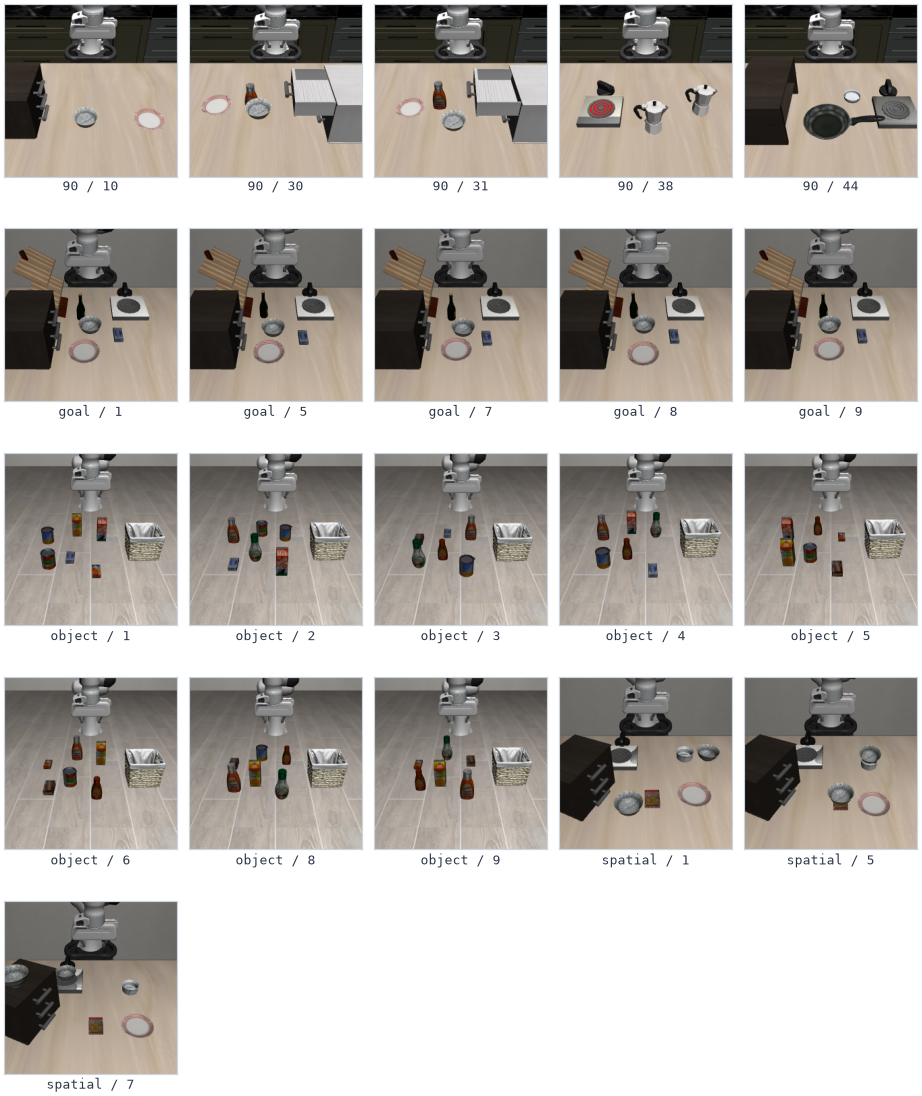
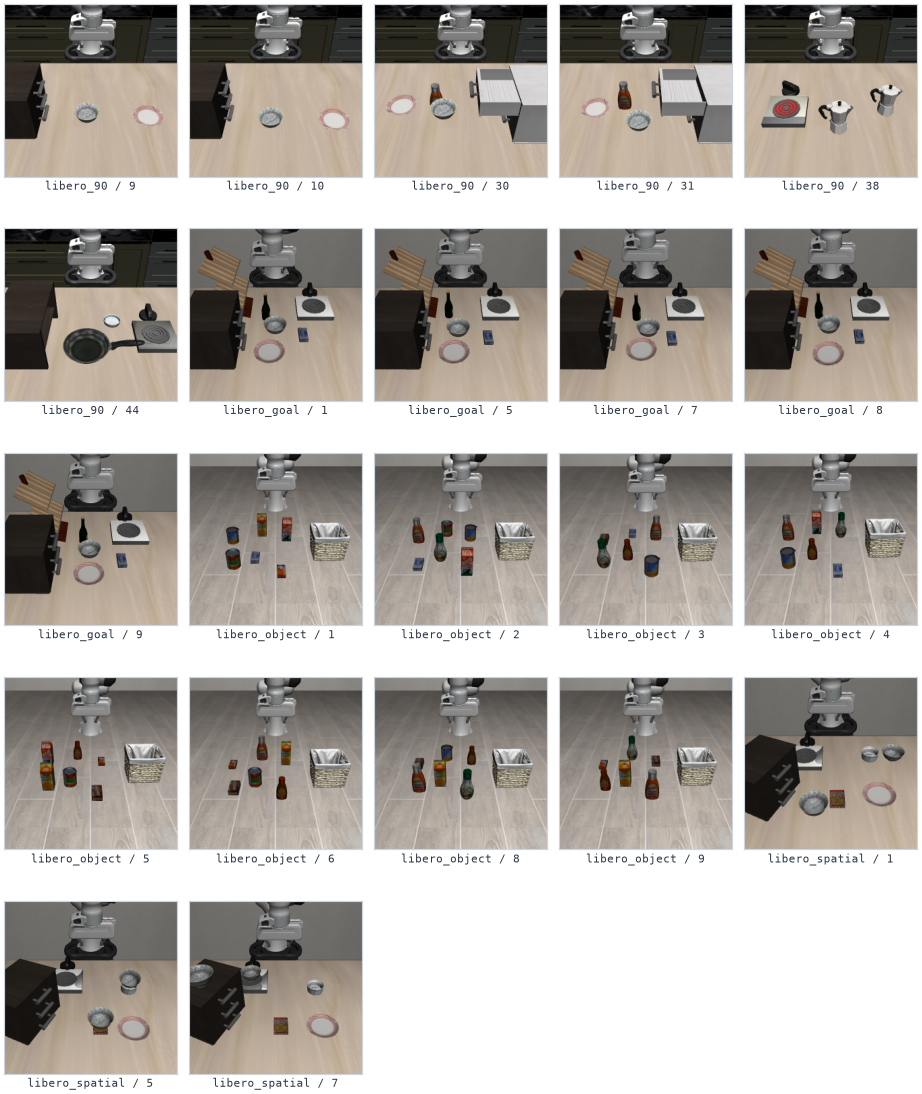
Minimal-pair edits (90/31 ladder, new 90/9) + scene grid suite labels

diff --git a/paper/figures/pairverify_libero_body.tex b/paper/figures/pairverify_libero_body.tex
@@ -1,0 +1,124 @@
+{\ttfamily\bfseries libero\_90/9}\par\nopagebreak
+{\leftskip=1.1em
+{\bfseries question form}\enspace +14\,pp\,$\cdot$\, p=0.0144\\[0.5pt]
+\hangindent=2.4em \pct{hipct}{98}~\texttt{put the black bowl on the plate}\\
+\hangindent=2.4em \pct{lopct}{84}~\texttt{\colorbox{lo}{\strut can} \colorbox{lo}{\strut you} put the black bowl on the plate}\\
+[0.4pt]\par}
+\vspace{0.3pt}{\color{black!35}\hrule height 0.5pt}\vspace{1.0pt}
+{\ttfamily\bfseries libero\_90/10}\par\nopagebreak
+{\leftskip=1.1em
+{\bfseries preposition}\enspace +40\,pp\,$\cdot$\, p<0.0001\\[0.5pt]
+\hangindent=2.4em \pct{hipct}{100}~\texttt{place the black bowl \colorbox{hi}{\strut on} \colorbox{hi}{\strut top} \colorbox{hi}{\strut of} the cabinet}\\
+\hangindent=2.4em \pct{lopct}{60}~\texttt{place the black bowl \colorbox{lo}{\strut up} \colorbox{lo}{\strut onto} the cabinet}\\
+[0.4pt]\par}
+\vspace{0.3pt}{\color{black!35}\hrule height 0.5pt}\vspace{1.0pt}
+{\ttfamily\bfseries libero\_90/30}\par\nopagebreak
+{\leftskip=1.1em
+{\bfseries destination noun}\enspace +56\,pp\,$\cdot$\, p<0.0001\\[0.5pt]
+\hangindent=2.4em \pct{hipct}{76}~\texttt{put the black bowl on the \colorbox{hi}{\strut plate}}\\
+\hangindent=2.4em \pct{lopct}{20}~\texttt{put the black bowl on the \colorbox{lo}{\strut dish}}\\
+[0.4pt]\par}
+\vspace{0.3pt}{\color{black!35}\hrule height 0.5pt}\vspace{1.0pt}
+{\ttfamily\bfseries libero\_90/31}\par\nopagebreak
+{\leftskip=1.1em
+{\bfseries source color}\enspace +26\,pp\,$\cdot$\, p=0.0020\\[0.5pt]
+\hangindent=2.4em \pct{hipct}{36}~\texttt{put the \colorbox{hi}{\strut bowl} on top of the cabinet}\\
+\hangindent=2.4em \pct{lopct}{16}~\texttt{put the \colorbox{lo}{\strut black} \colorbox{lo}{\strut bowl} on top of the cabinet}\\
+\hangindent=2.4em \pct{lopct}{10}~\texttt{put the \colorbox{lo}{\strut grey} \colorbox{lo}{\strut bowl} on top of the cabinet}\\
+[0.4pt]\par}
+\vspace{0.3pt}{\color{black!35}\hrule height 0.5pt}\vspace{1.0pt}
+{\ttfamily\bfseries libero\_90/38}\par\nopagebreak
+{\leftskip=1.1em
+{\bfseries verb}\enspace +20\,pp\,$\cdot$\, p=0.0440\\[0.5pt]
+\hangindent=2.4em \pct{hipct}{54}~\texttt{\colorbox{hi}{\strut pick} \colorbox{hi}{\strut up} the right moka pot and place it on the stove}\\
+\hangindent=2.4em \pct{lopct}{34}~\texttt{\colorbox{lo}{\strut lift} the right moka pot and place it on the stove}\\
+[0.4pt]\par}
+\vspace{0.3pt}{\color{black!35}\hrule height 0.5pt}\vspace{1.0pt}
+{\ttfamily\bfseries libero\_90/44}\par\nopagebreak
+{\leftskip=1.1em
+{\bfseries verb}\enspace +94\,pp\,$\cdot$\, p<0.0001\\[0.5pt]
+\hangindent=2.4em \pct{hipct}{100}~\texttt{\colorbox{hi}{\strut fire} \colorbox{hi}{\strut up} the stove}\\
+\hangindent=2.4em \pct{lopct}{6}~\texttt{\colorbox{lo}{\strut turn} \colorbox{lo}{\strut on} the stove}\\
+[0.4pt]\par}
+{\leftskip=1.1em
+{\bfseries particle placement}\enspace +14\,pp\,$\cdot$\, p=0.0374\\[0.5pt]
+\hangindent=2.4em \pct{hipct}{20}~\texttt{turn \colorbox{hi}{\strut the} stove \colorbox{hi}{\strut on}}\\
+\hangindent=2.4em \pct{lopct}{6}~\texttt{turn \colorbox{lo}{\strut on} \colorbox{lo}{\strut the} stove}\\
+[0.4pt]\par}
+\vspace{0.3pt}{\color{black!35}\hrule height 0.5pt}\vspace{1.0pt}
+{\ttfamily\bfseries libero\_goal/1}\par\nopagebreak
+{\leftskip=1.1em
+{\bfseries destination noun}\enspace +92\,pp\,$\cdot$\, p<0.0001\\[0.5pt]
+\hangindent=2.4em \pct{hipct}{92}~\texttt{place the grey bowl on the \colorbox{hi}{\strut electric} \colorbox{hi}{\strut burner}}\\
+\hangindent=2.4em \pct{lopct}{18}~\texttt{place the grey bowl on the \colorbox{lo}{\strut hotplate}}\\
+\hangindent=2.4em \pct{lopct}{0}~\texttt{place the grey bowl on the \colorbox{lo}{\strut hot} \colorbox{lo}{\strut plate}}\\
+[0.4pt]\par}
+\vspace{0.3pt}{\color{black!35}\hrule height 0.5pt}\vspace{1.0pt}
+{\ttfamily\bfseries libero\_goal/5}\par\nopagebreak
+{\leftskip=1.1em
+{\bfseries source noun}\enspace +60\,pp\,$\cdot$\, p<0.0001\\[0.5pt]
+\hangindent=2.4em \pct{hipct}{62}~\texttt{slide that \colorbox{hi}{\strut plate} over to the front of the stove}\\
+\hangindent=2.4em \pct{lopct}{2}~\texttt{slide that \colorbox{lo}{\strut dish} over to the front of the stove}\\
+[0.4pt]\par}
+\vspace{0.3pt}{\color{black!35}\hrule height 0.5pt}\vspace{1.0pt}
+{\ttfamily\bfseries libero\_goal/7}\par\nopagebreak
+{\leftskip=1.1em
+{\bfseries source noun}\enspace +98\,pp\,$\cdot$\, p<0.0001\\[0.5pt]
+\hangindent=2.4em \pct{hipct}{100}~\texttt{switch on the \colorbox{hi}{\strut stove}}\\
+\hangindent=2.4em \pct{lopct}{86}~\texttt{switch on the \colorbox{lo}{\strut range}}\\
+\hangindent=2.4em \pct{lopct}{78}~\texttt{switch on the \colorbox{lo}{\strut hob}}\\
+\hangindent=2.4em \pct{lopct}{74}~\texttt{switch on the \colorbox{lo}{\strut cooktop}}\\
+\hangindent=2.4em \pct{lopct}{66}~\texttt{switch on the \colorbox{lo}{\strut heating} \colorbox{lo}{\strut element}}\\
+\hangindent=2.4em \pct{lopct}{62}~\texttt{switch on the \colorbox{lo}{\strut griddle}}\\
+\hangindent=2.4em \pct{lopct}{30}~\texttt{switch on the \colorbox{lo}{\strut hotplate}}\\
+\hangindent=2.4em \pct{lopct}{2}~\texttt{switch on the \colorbox{lo}{\strut hot} \colorbox{lo}{\strut plate}}\\
+[0.4pt]\par}
+{\leftskip=1.1em
+{\bfseries verb}\enspace +52\,pp\,$\cdot$\, p<0.0001\\[0.5pt]
+\hangindent=2.4em \pct{hipct}{100}~\texttt{\colorbox{hi}{\strut turn} \colorbox{hi}{\strut on} the burners}\\
+\hangindent=2.4em \pct{lopct}{48}~\texttt{\colorbox{lo}{\strut start} the burners}\\
+[0.4pt]\par}
+\vspace{0.3pt}{\color{black!35}\hrule height 0.5pt}\vspace{1.0pt}
+{\ttfamily\bfseries libero\_goal/8}\par\nopagebreak
+{\leftskip=1.1em
+{\bfseries destination noun}\enspace +52\,pp\,$\cdot$\, p<0.0001\\[0.5pt]
+\hangindent=2.4em \pct{hipct}{100}~\texttt{put the bowl on the \colorbox{hi}{\strut plate}}\\
+\hangindent=2.4em \pct{lopct}{48}~\texttt{put the bowl on the \colorbox{lo}{\strut dish}}\\
+[0.4pt]\par}
+\vspace{0.3pt}{\color{black!35}\hrule height 0.5pt}\vspace{1.0pt}
+{\ttfamily\bfseries libero\_goal/9}\par\nopagebreak
+{\leftskip=1.1em
+{\bfseries destination noun}\enspace +44\,pp\,$\cdot$\, p<0.0001\\[0.5pt]
+\hangindent=2.4em \pct{hipct}{94}~\texttt{put the wine bottle on the \colorbox{hi}{\strut rack}}\\
+\hangindent=2.4em \pct{lopct}{76}~\texttt{put the wine bottle on the \colorbox{lo}{\strut stand}}\\
+\hangindent=2.4em \pct{lopct}{50}~\texttt{put the wine bottle on the \colorbox{lo}{\strut wooden} \colorbox{lo}{\strut stand}}\\
+[0.4pt]\par}
+\vspace{0.3pt}{\color{black!35}\hrule height 0.5pt}\vspace{1.0pt}
+{\ttfamily\bfseries libero\_object/4}\par\nopagebreak
+{\leftskip=1.1em
+{\bfseries modifier added}\enspace +38\,pp\,$\cdot$\, p<0.0001\\[0.5pt]
+\hangindent=2.4em \pct{hipct}{96}~\texttt{pick up the \colorbox{hi}{\strut bottle} and place it in the basket}\\
+\hangindent=2.4em \pct{lopct}{58}~\texttt{pick up the \colorbox{lo}{\strut red} \colorbox{lo}{\strut bottle} and place it in the basket}\\
+[0.4pt]\par}
+\vspace{0.3pt}{\color{black!35}\hrule height 0.5pt}\vspace{1.0pt}
+{\ttfamily\bfseries libero\_object/9}\par\nopagebreak
+{\leftskip=1.1em
+{\bfseries source noun}\enspace +84\,pp\,$\cdot$\, p<0.0001\\[0.5pt]
+\hangindent=2.4em \pct{hipct}{96}~\texttt{pick up the \colorbox{hi}{\strut juice} and place it in the basket}\\
+\hangindent=2.4em \pct{lopct}{20}~\texttt{pick up the \colorbox{lo}{\strut drink} and place it in the basket}\\
+\hangindent=2.4em \pct{lopct}{12}~\texttt{pick up the \colorbox{lo}{\strut carton} and place it in the basket}\\
+[0.4pt]\par}
+\vspace{0.3pt}{\color{black!35}\hrule height 0.5pt}\vspace{1.0pt}
+{\ttfamily\bfseries libero\_spatial/1}\par\nopagebreak
+{\leftskip=1.1em
+{\bfseries locator noun}\enspace +38\,pp\,$\cdot$\, p<0.0001\\[0.5pt]
+\hangindent=2.4em \pct{hipct}{100}~\texttt{pick up the black bowl next to the \colorbox{hi}{\strut ramekin} and place it on the plate}\\
+\hangindent=2.4em \pct{lopct}{62}~\texttt{pick up the black bowl next to the \colorbox{lo}{\strut dish} and place it on the plate}\\
+[0.4pt]\par}
+\vspace{0.3pt}{\color{black!35}\hrule height 0.5pt}\vspace{1.0pt}
+{\ttfamily\bfseries libero\_spatial/7}\par\nopagebreak
+{\leftskip=1.1em
+{\bfseries locator noun}\enspace +78\,pp\,$\cdot$\, p<0.0001\\[0.5pt]
+\hangindent=2.4em \pct{hipct}{100}~\texttt{pick up the black bowl on the \colorbox{hi}{\strut stove} and place it on the plate}\\
+\hangindent=2.4em \pct{lopct}{22}~\texttt{pick up the black bowl on the \colorbox{lo}{\strut hot} \colorbox{lo}{\strut plate} and place it on the plate}\\
+[0.4pt]\par}

diff --git a/scripts/make_scene_grids.py b/scripts/make_scene_grids.py
@@ -62,6 +62,6 @@ grid([(bridge_frame(t), t) for t in BRIDGE], 4, 0.75,
 lib = sorted(glob.glob(str(R / "results/analysis/pairverify_libero/frames/*.png")),
              key=lambda f: (pathlib.Path(f).stem.split("__")[0],
                             int(pathlib.Path(f).stem.split("__")[1])))
-items = [(f, pathlib.Path(f).stem.replace("libero_", "").replace("__", " / "))
+items = [(f, pathlib.Path(f).stem.replace("__", " / "))
          for f in lib]
-grid(items, 5, 1.0, R / "results/charts/scenes_libero_grid.png", 4.4)
+grid(items, 5, 1.0, R / "results/charts/scenes_libero_grid.png", 3.9)
